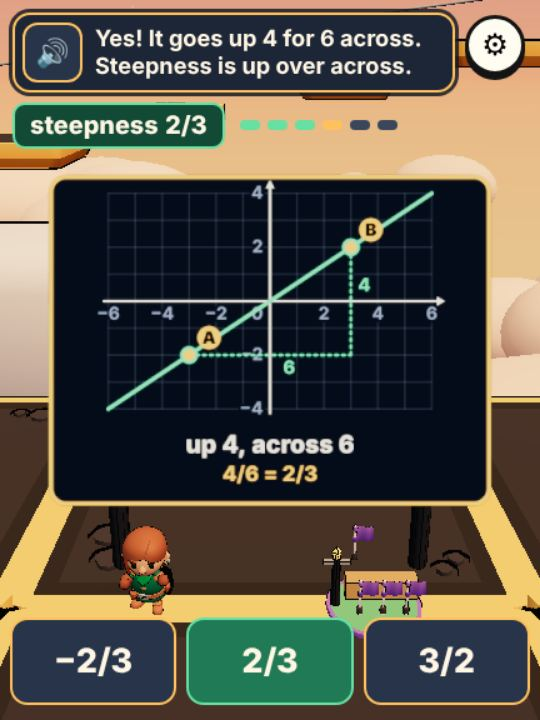
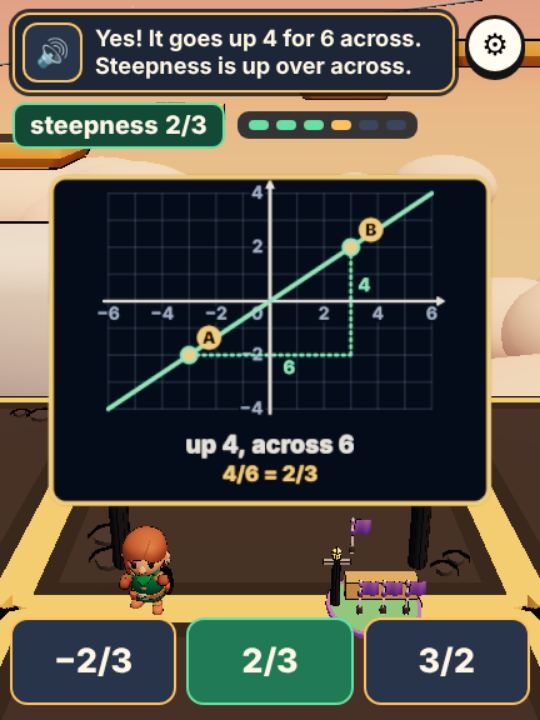
Sky Lines: the round dots on their own dark pill, one letter for car A's wire; pictures retaken
Claude-Session: https://claude.ai/code/session_013fJHoNyx7YpmiySDgm2YvR

Changed region(s): [[0.4148, 0.1528, 0.7704, 0.2139], [0.6519, 0.7028, 0.7111, 0.7639]]

diff --git a/seed-games/sky-lines.html b/seed-games/sky-lines.html
@@ -78,7 +78,7 @@
   .sl-sum.ok { background: #124a35; border-color: #66E0A3; }
   .sl-low { display: flex; flex-direction: column; align-items: center; gap: 8px; }
   .sl-hint { background: #FFD23F; color: #141414; border-radius: 12px; padding: 8px 14px; margin: 0 10px; font-weight: 700; font-size: clamp(16px, 3.6vw, 21px); line-height: 1.2; text-align: center; max-width: min(calc(100% - 20px), 620px); }
-  .sl-dots { flex: none; display: flex; gap: 6px; padding: 2px; }
+  .sl-dots { flex: none; display: flex; gap: 6px; padding: 7px 9px; background: rgba(21, 27, 38, .85); border-radius: 9px; }
   .sl-dots i { width: 22px; height: 8px; border-radius: 4px; background: #3a465c; }
   .sl-dots i.on { background: #66E0A3; } .sl-dots i.now { background: #FFC15E; }
   .sl-bar { display: flex; gap: 10px; justify-content: center; align-items: stretch; align-self: stretch; padding: 0 10px calc(12px + env(safe-area-inset-bottom, 0px)); }
@@ -261,8 +261,8 @@
       var P = [[4, 8], [2, 6], [2, 3]][v], Bm = [5, 9, 6][v], Bs = [2, 4, 4][v], ka = P[1] / P[0], kb = Bm / Bs, win = ka > kb ? 'A' : kb > ka ? 'B' : 'same';
       out.kind = 'compare'; out.win = Q1; out.task = { type: 'compare', A: { m: P[1], s: P[0] }, B: { m: Bm, s: Bs } };
       var two = [L('p.hint.a', { a: P[1], b: P[0], k: ka }), L('p.hint.b', { a: Bm, b: Bs, k: kb })];
-      var both = { win: Q1, pts: [isl(P, 'A')], wires: [wire(ka, 0, { t: 'A' }), wire(kb, 0, { t: 'B', dash: true })], lines: [L('show.each', { a: ka, b: kb })] };
-      out.pic = { ask: { win: Q1, pts: [isl([0, 0]), isl(P, 'A')], wires: [wire(ka, 0, { t: 'A' })], lines: [L('show.axes')] }, found: both };
+      var both = { win: Q1, pts: [isl(P)], wires: [wire(ka, 0, { t: 'A' }), wire(kb, 0, { t: 'B', dash: true })], lines: [L('show.each', { a: ka, b: kb })] };
+      out.pic = { ask: { win: Q1, pts: [isl([0, 0]), isl(P)], wires: [wire(ka, 0, { t: 'A' })], lines: [L('show.axes')] }, found: both };
       var T3 = { A: opt('A', 'car A'), B: opt('B', 'car B'), same: opt('same', 'the same') }, wrong = ['A', 'B', 'same'].filter(function (id) { return id !== win; });
       offer(r, out, T3[win], wrong.map(function (id) { return [T3[id], two, both]; }), ['A', 'B', 'same']);
       out.ask = [L('p.ask.compare', { a: Bm, b: Bs })];

diff --git a/tests/unit/sky-lines.test.js b/tests/unit/sky-lines.test.js
@@ -263,7 +263,7 @@ test('rounds: six a chapter, every answer right for the reason the unit teaches,
         wireOk(r, at, w => Math.abs(w(b) - a) < 1e-9 && w(0) === 0, v => x => v.m * x);
         assert.deepEqual(r.said[0][1], { a, b, k: a / b }, at);
       } else {
-        const A = r.pic.ask.pts.find(p => p.t === 'A'), w = wf(r.pic.ask.wires[0]); assert.ok(w(0) === 0 && w(A.x) === A.y, `${at}: car A's wire runs from the start through its island`);
+        const A = r.pic.ask.pts.find(p => p.x > 0), w = wf(r.pic.ask.wires[0]); assert.ok(r.pic.ask.wires[0].t === 'A' && w(0) === 0 && w(A.x) === A.y, `${at}: car A's wire runs from the start through its marked point`);
         const { a, b } = r.ask[0][1], ka = A.y / A.x, kb = a / b, want = ka > kb ? 'A' : kb > ka ? 'B' : 'same';
         tilesOk(r, at, o => o.v === want); assert.deepEqual(vals(r), ['A', 'B', 'same'], at);
         for (const i of r.choices.filter(v => v !== r.answer)) assert.deepEqual(SL.judge(r, i).lines, [L('p.hint.a', { a: A.y, b: A.x, k: ka }), L('p.hint.b', { a, b, k: kb })], `${at}: both rates, worked out`);
